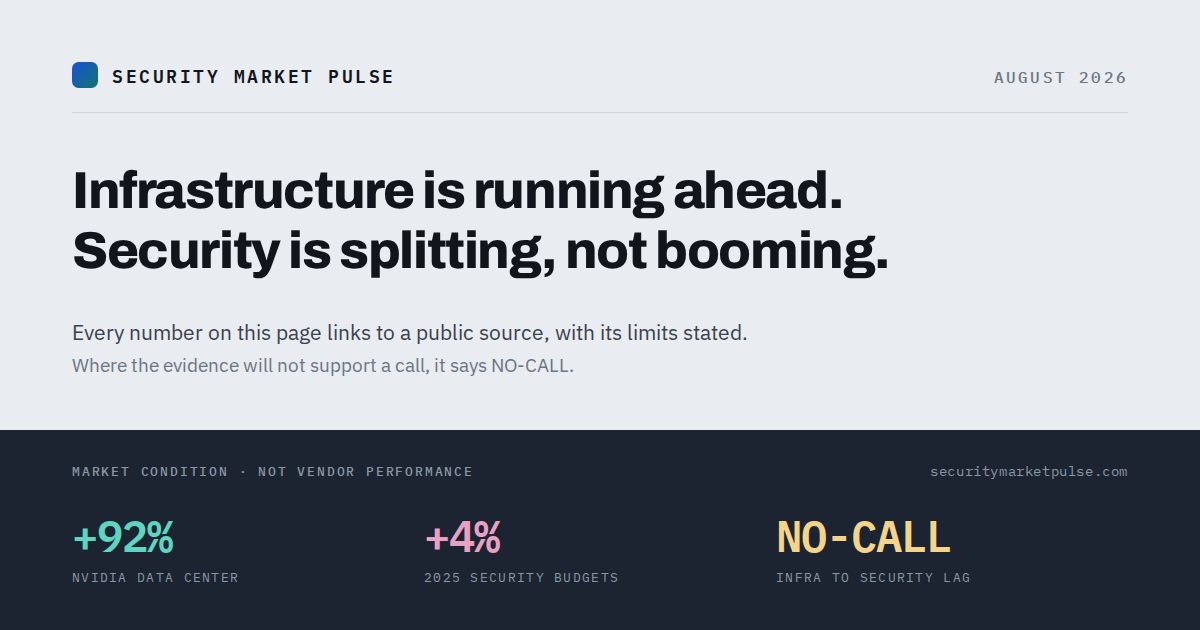
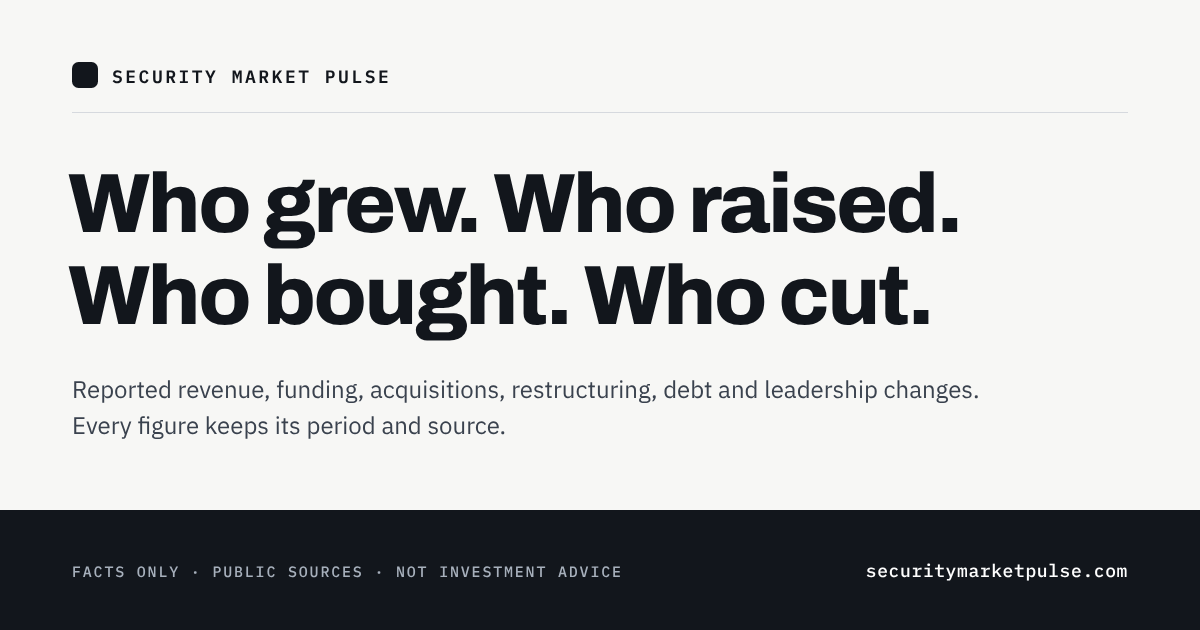
feat(web): replace the share card with the new headline
public/og.png still showed the retired August thesis ('Infrastructure is
running ahead. Security is splitting, not booming.') with NO-CALL and
two stats, a stance on every link unfurl. The new card carries the site
headline, the masthead description and a facts-only footer, with no
numbers or dates so it does not go stale as coverage grows. Owner asked
for the replacement in the project thread.

- assets-src/og.svg rewritten; public/og.png re-rendered from it
- og:image:alt / twitter:image:alt now repeat the headline and description
- generate-seo.ts gate now checks og.svg and both alt tags against
  SITE_HEADLINE (was the retired marketCall headline and contextStats);
  confirmed it fails the build when the card text drifts

Visual: the page itself does not move; only the social share image and
its alt text change.

Owner-Review: required

Claude-Session: https://claude.ai/code/session_01MVucVngs9rXp2F2iNzABaa

diff --git a/web/scripts/generate-seo.ts b/web/scripts/generate-seo.ts
@@ -6,8 +6,8 @@
  * Jobs, all driven off src/data so that nothing here can drift from the page
  * content when a new edition or issue ships:
  *   1. Fail the build if the hand-maintained OG image (assets-src/og.svg) or
- *      the front page's og:image:alt / twitter:image:alt no longer match the
- *      current headline and contextStats — see the OG staleness gate below.
+ *      the front page's og:image:alt / twitter:image:alt no longer carry the
+ *      current SITE_HEADLINE. See the OG staleness gate below.
  *      This check runs against the front page only; it is the only route with
  *      a hand-authored social image.
  *   2. Inject a schema.org JSON-LD block into every emitted route's HTML —
@@ -28,7 +28,7 @@ import { corrections } from '../src/data/corrections.ts'
 import { feedIssuesNewestFirst } from '../src/data/issueHelpers.ts'
 import { issueById, issues } from '../src/data/issues/index.ts'
 import { routes, type RouteEntry } from '../src/data/routes.ts'
-import { contextStats, marketCall } from '../src/data/market.ts'
+import { marketCall } from '../src/data/market.ts'
 import {
   AUTHOR_NAME,
   LAST_UPDATED_ISO,
@@ -81,17 +81,16 @@ function readTitle(html: string): string {
 const frontHtml = readFileSync(htmlPath, 'utf8')
 
 // --- OG staleness gate (front page only) ------------------------------------
-// assets-src/og.svg bakes marketCall.headline and every contextStats[].value
-// into the image as literal text; it is rasterized to public/og.png by the
-// manual step assets-src/render-og.mjs, which nothing in `npm run build` runs.
-// index.html's og:image:alt and twitter:image:alt duplicate the headline for
-// the same unfurl. None of that is derived at build time, so editing
-// src/data/market.ts alone leaves the build green while every LinkedIn/Slack
-// unfurl keeps showing the old headline and stats under the new page. Fail
-// closed instead.
+// assets-src/og.svg bakes SITE_HEADLINE into the image as literal text; it is
+// rasterized to public/og.png by the manual step assets-src/render-og.mjs,
+// which nothing in `npm run build` runs. index.html's og:image:alt and
+// twitter:image:alt repeat the headline for the same unfurl. None of that is
+// derived at build time, so editing SITE_HEADLINE alone would leave the build
+// green while every LinkedIn/Slack unfurl kept showing the old headline. Fail
+// closed instead. The card carries no figures, so only the headline is checked.
 const ogSvg = readFileSync(resolve(webRoot, 'assets-src/og.svg'), 'utf8')
 
-// The headline is laid out as two separate <text> elements (one per line), so
+// The headline is laid out as separate <text> elements (one per line), so
 // strip comments/tags and collapse whitespace to read the image's text as the
 // single sentence a viewer sees.
 const ogSvgText = ogSvg
@@ -102,16 +101,8 @@ const ogSvgText = ogSvg
 
 const ogDrift: string[] = []
 
-if (!ogSvgText.includes(marketCall.headline)) {
-  ogDrift.push(`assets-src/og.svg does not contain the current headline: "${marketCall.headline}"`)
-}
-
-for (const stat of contextStats) {
-  if (!ogSvgText.includes(stat.value)) {
-    ogDrift.push(
-      `assets-src/og.svg does not contain the current contextStats value "${stat.value}" (${stat.label})`,
-    )
-  }
+if (!ogSvgText.includes(SITE_HEADLINE)) {
+  ogDrift.push(`assets-src/og.svg does not contain the current headline: "${SITE_HEADLINE}"`)
 }
 
 /** Reads a `content="…"` attribute off the named property/name meta tag in the front page HTML. */
@@ -120,34 +111,21 @@ function readMetaContent(attr: 'property' | 'name', key: string): string | null 
   return match ? match[1] : null
 }
 
-// GATE RELAXED (D-76/autonomy-coverage-plan.md §3, step 1, task item 6): this
-// used to also fail unless og:image:alt/twitter:image:alt contained
-// marketCall.headline — i.e. it forced the front page's social alt text to
-// keep restating the judged market call. The front page no longer asserts
-// that call, so the alt text was deliberately changed to a factual
-// description of the image instead (index.html); requiring it to contain
-// the retired headline would be requiring judged text on a live page, which
-// is exactly what this pass removes. public/og.png itself is untouched (it
-// still shows the old headline as pixels — see the report), so this keeps
-// only the sanity check that the tags exist at all, not that their words
-// match a judgment the page no longer makes.
-const ogImageAlt = readMetaContent('property', 'og:image:alt')
-const twitterImageAlt = readMetaContent('name', 'twitter:image:alt')
-
-if (ogImageAlt === null) {
-  ogDrift.push('index.html has no og:image:alt meta tag')
-}
-
-if (twitterImageAlt === null) {
-  ogDrift.push('index.html has no twitter:image:alt meta tag')
+for (const [attr, key] of [['property', 'og:image:alt'], ['name', 'twitter:image:alt']] as const) {
+  const alt = readMetaContent(attr, key)
+  if (alt === null) {
+    ogDrift.push(`index.html has no ${key} meta tag`)
+  } else if (!alt.includes(SITE_HEADLINE)) {
+    ogDrift.push(`index.html ${key} does not contain the current headline: "${SITE_HEADLINE}"`)
+  }
 }
 
 if (ogDrift.length > 0) {
   fail(
-    `${ogDrift.join('; ')}. src/data/market.ts changed and the OG image / social meta tags were not ` +
-      "updated to match: edit assets-src/og.svg's text to match, then re-run assets-src/render-og.mjs " +
-      '(from web/, inside the OrbStack dev VM) to rebuild public/og.png, and update index.html\'s ' +
-      'og:image:alt and twitter:image:alt to the current headline.',
+    `${ogDrift.join('; ')}. SITE_HEADLINE changed and the OG image / social meta tags were not ` +
+      "updated to match: edit assets-src/og.svg's text to match, then re-run " +
+      'node assets-src/render-og.mjs (from web/) to rebuild public/og.png, and update ' +
+      "index.html's og:image:alt and twitter:image:alt to the current headline.",
   )
 }
 

diff --git a/web/index.html b/web/index.html
@@ -22,18 +22,15 @@
       property="og:description"
       content="Sourced facts about the business of the security market: who is growing, stalling, consolidating, being bought, or in financial trouble. Collected, checked and published automatically, with no stances, rankings or forecasts."
     />
-    <!-- public/og.png still shows the retired "Infrastructure is running ahead. Security is
-         splitting, not booming." headline as pixels (D-76 facts-only pass, step 1). It is a
-         manually rasterized asset (assets-src/render-og.mjs) outside `npm run build`; this pass
-         does not regenerate it — flagged in docs/archive/2026-10-refresh-gate/auto-001/step1/report.md for a separate
-         owner-approved regeneration. -->
+    <!-- public/og.png is rendered from assets-src/og.svg (node assets-src/render-og.mjs). The
+         build fails if the card or the alt text below drops the current SITE_HEADLINE. -->
     <meta property="og:image" content="https://securitymarketpulse.com/og.png" />
     <meta property="og:image:type" content="image/png" />
     <meta property="og:image:width" content="1200" />
     <meta property="og:image:height" content="630" />
     <meta
       property="og:image:alt"
-      content="Security Market Pulse — a sourced, evidence-linked picture of the security market, updated as facts change."
+      content="Security Market Pulse. Who grew. Who raised. Who bought. Who cut. Reported revenue, funding, acquisitions, restructuring, debt and leadership changes. Every figure keeps its period and source."
     />
     <meta property="og:locale" content="en_US" />
 
@@ -47,7 +44,7 @@
     <meta name="twitter:image" content="https://securitymarketpulse.com/og.png" />
     <meta
       name="twitter:image:alt"
-      content="Security Market Pulse — a sourced, evidence-linked picture of the security market, updated as facts change."
+      content="Security Market Pulse. Who grew. Who raised. Who bought. Who cut. Reported revenue, funding, acquisitions, restructuring, debt and leadership changes. Every figure keeps its period and source."
     />
 
     <!-- schema.org JSON-LD is injected at the end of the head at build time by
